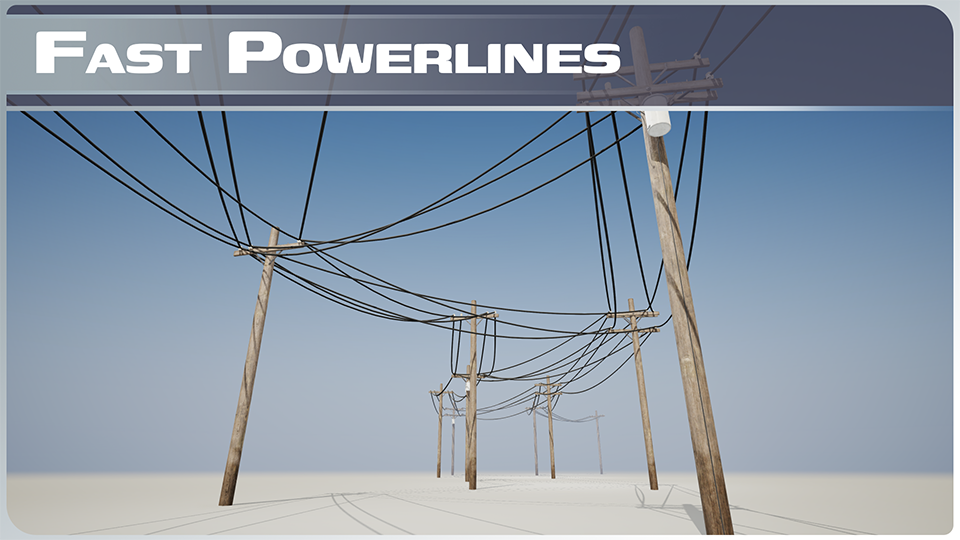
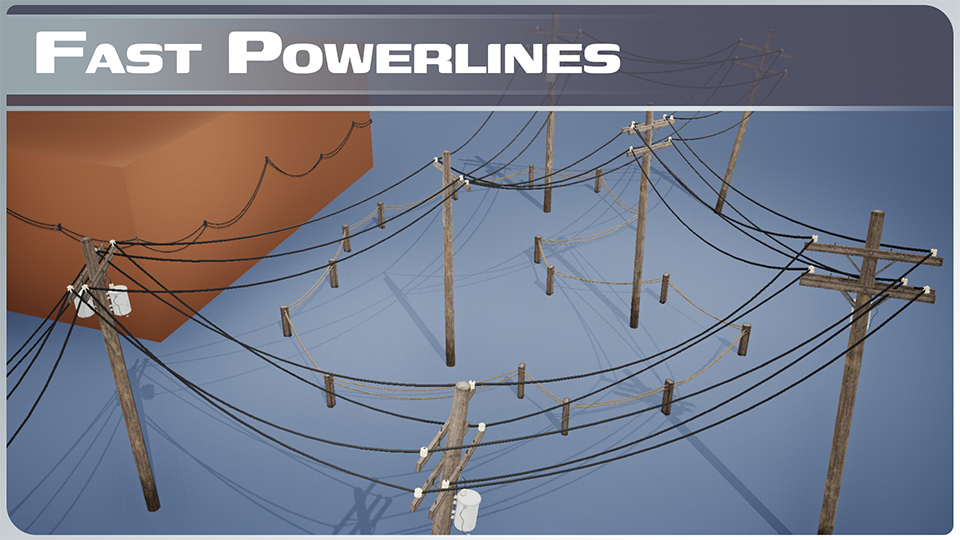
Update cover images

diff --git a/content/powerlines/_index.md b/content/powerlines/_index.md
@@ -6,7 +6,7 @@ toc: false
 {{< hero-cover src="Powerline_loop.webp" alt="Powerlines animation" >}}
 {{< prod-button link="https://fab.com/s/245d9e48759f" >}}
 
-Fast Powerlines is an Unreal Engine plugin that enables you to construct detailed powerline networks in minutes. Cables are dynamically generated at runtime using a Procedural Mesh Component.
+Fast Powerlines is an Unreal Engine plugin that enables you to construct detailed powerline networks in minutes. Cables are dynamically generated at runtime using a Procedural Mesh Component, with a clean separation between data configuration and level placement for an efficient workflow.
 
 **Key Features:**
 *   **Intuitive Workflow:** A user-friendly interface with logical data separation for ease of use.
@@ -14,6 +14,10 @@ Fast Powerlines is an Unreal Engine plugin that enables you to construct detaile
 *   **Production-Ready Content:** Includes high-quality starting assets and examples that demonstrate every feature.
 *   **Comprehensive Documentation:** Extensive guides and references accompany the toolset.
 *   **Built-in Optimization:** Features like static mesh baking help maintain performance in complex scenes.
+*   **Network Connection System:** Create interconnected power grids by linking actors or connect cables to any actor with sockets or bones.
+*   **Customizable Wind Effects:** Vertex color-based wind system with contrast, sharpness, and intensity controls for dynamic, believable cable movement.
+*   **Editor Visualization Tools:** Debug views for cable points and pole indices to streamline the placement and connection process.
+  
 
 ## Overview
 

diff --git a/content/powerlines/changelog.md b/content/powerlines/changelog.md
@@ -5,13 +5,16 @@ weight: 10
 prev: /powerlines
 ---
 
-<!-- ## Version 1.23
 
-### **Fixed**
- *   Fixed target copy actor variable to copy points from itself.
+## Version 1.23
 
 ### **Added**
-* Customizable trace channel in traceing category.  -->
+*   Customizable trace channel in the tracing struct.
+
+### **Fixed**
+*   Fixed an issue where the Target Copy Actor variable could copy points from itself, preventing point editing.
+
+---
 
 ## Version 1.21
 
